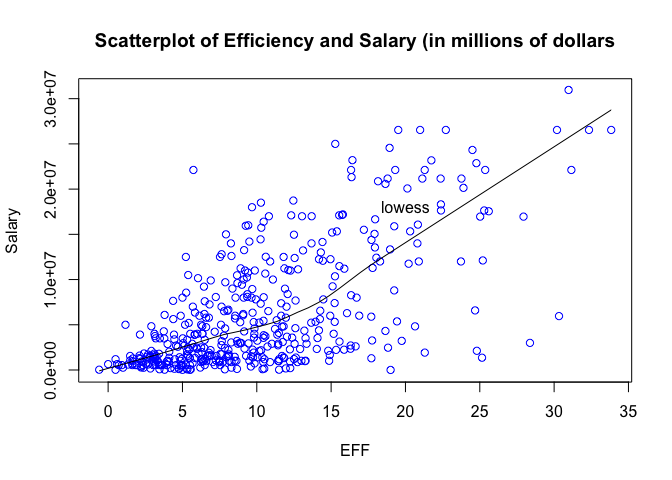
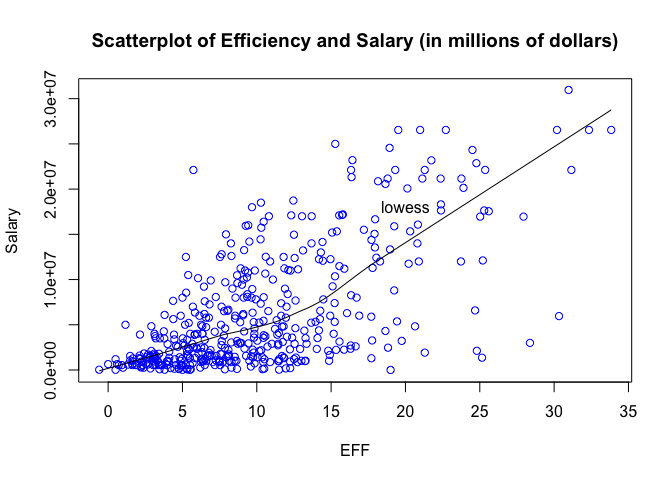
finalizing

Changed region(s): [[0.125, 0.0625, 0.9375, 0.125]]

diff --git a/hw02/hw02-deborah-chang.md b/hw02/hw02-deborah-chang.md
@@ -246,7 +246,7 @@ barplot(correlations, main = "Correlations between Player Stats and EFF", width 
 ### 5) Efficiency and Salary
 
 ``` r
-scatter.smooth(base$EFF, base$Salary, main = "Scatterplot of Efficiency and Salary (in millions of dollars", xlab = "EFF", ylab = "Salary", col = "blue")
+scatter.smooth(base$EFF, base$Salary, main = "Scatterplot of Efficiency and Salary (in millions of dollars)", xlab = "EFF", ylab = "Salary", col = "blue")
 text(20, 1.8*10^7, labels = "lowess")
 ```
 
@@ -281,7 +281,7 @@ In the case of the "more established" players, there seems to be less of an asso
 
 ### 6) Comments and Reflections
 
--   Some things that were hard were indexing rows based on certain conditions.
+-   Some things that were hard were indexing rows based on certain conditions and determining the relationships of the correlations.
 -   Some straightforward concepts included creating plots and analyzing these images.
 -   I utilized GSI and instructor office hours; the assignment took me about 3 hours.
 -   The most time consuming part was importing and cleaning the data.
